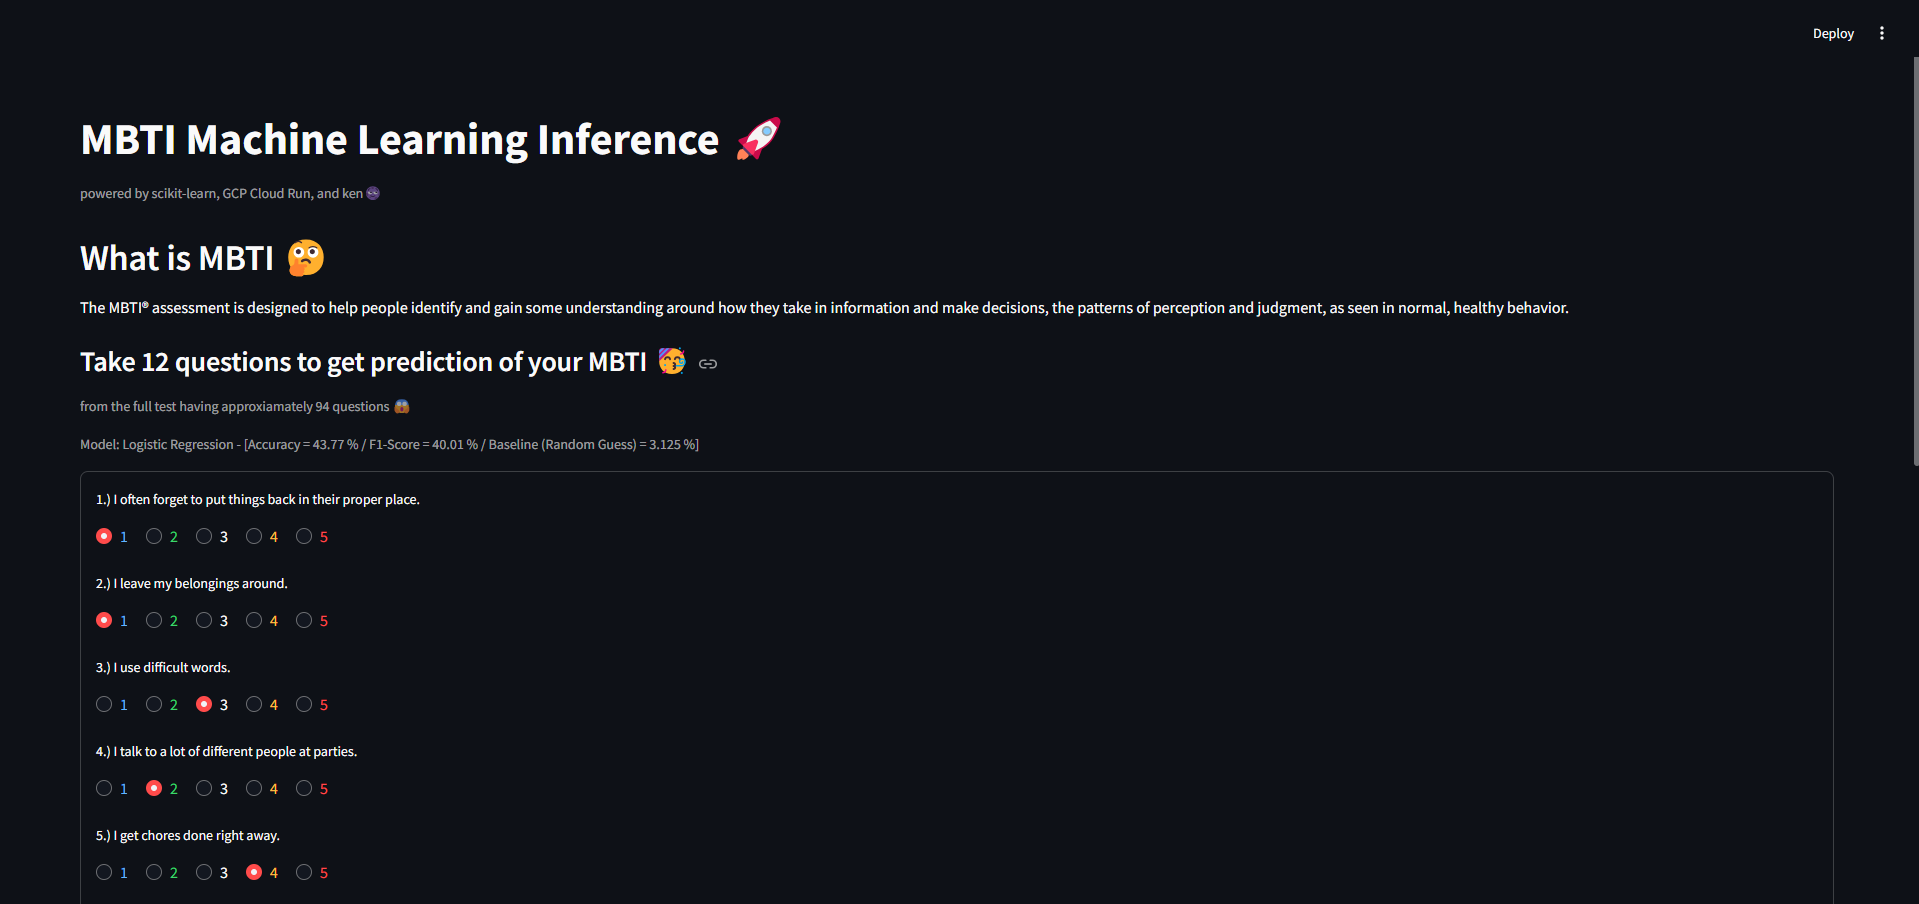
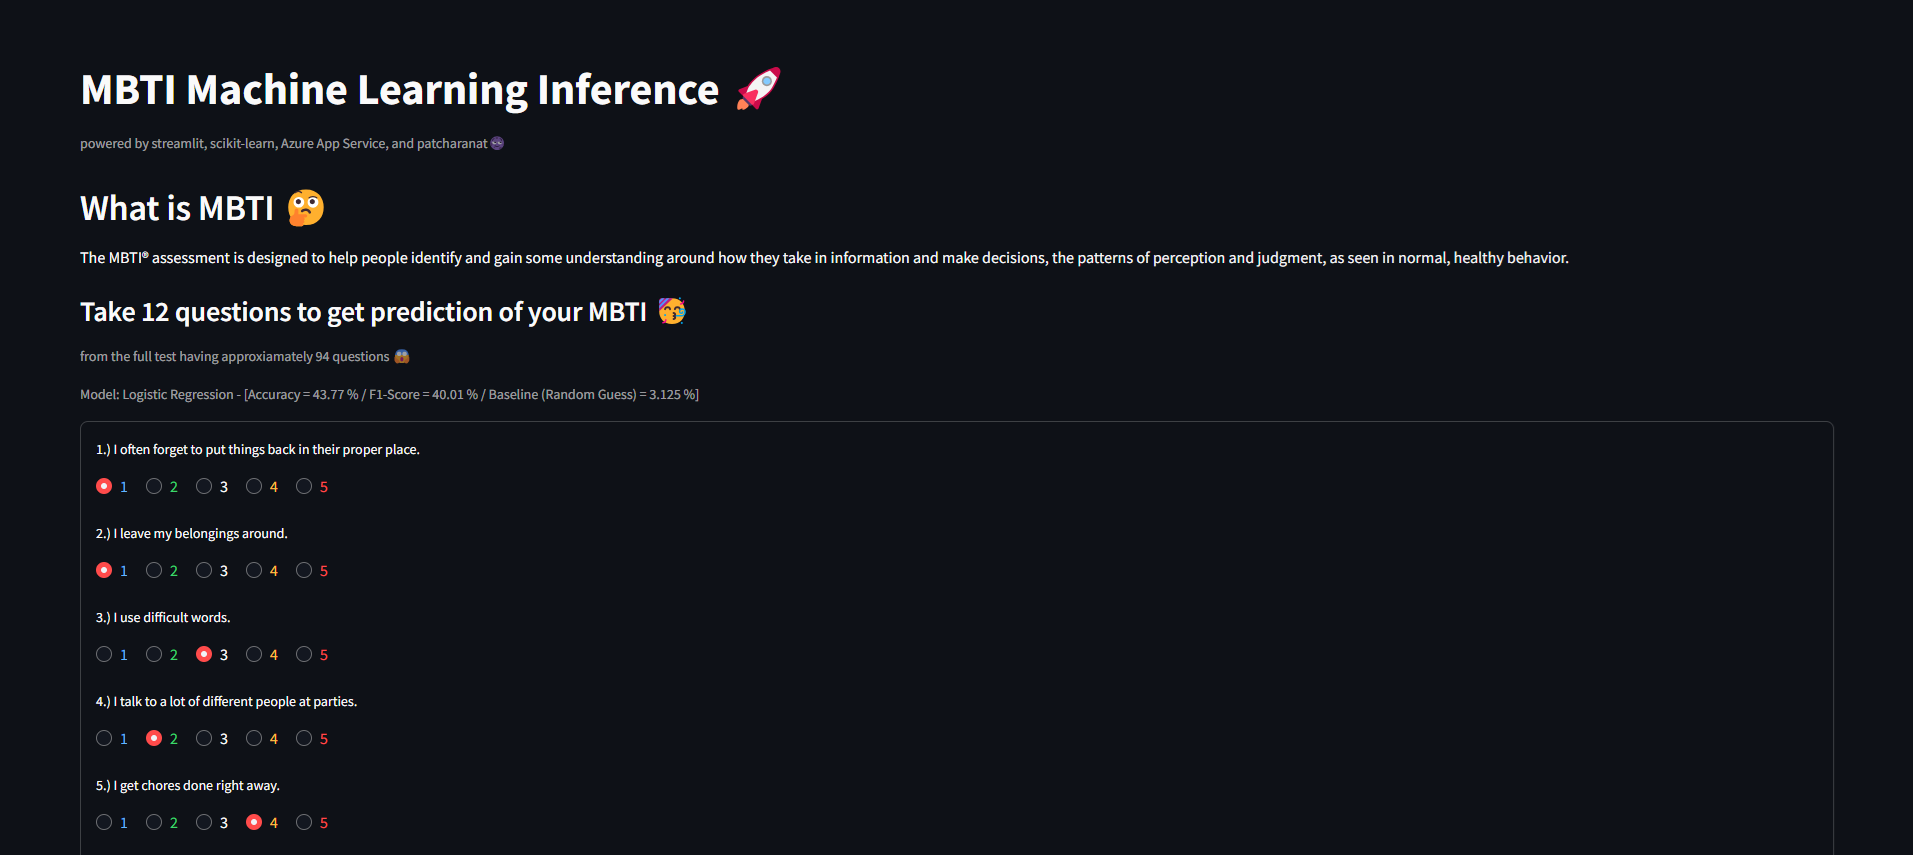
improve docs

diff --git a/mbti_ipip/streamlit/main_app.py b/mbti_ipip/streamlit/main_app.py
@@ -13,7 +13,7 @@ RELATIVE_PATH = os.getenv("DOCKER_OPERATE", "mbti_ipip/streamlit/")
 
 st.set_page_config(layout="wide")
 st.title("MBTI Machine Learning Inference 🚀")
-st.caption("powered by scikit-learn, Azure App Service")
+st.caption("powered by streamlit, scikit-learn, Azure App Service, and patcharanat🌚")
 
 st.header("What is MBTI 🤔")
 st.markdown("""

diff --git a/mbti_ipip/README.md b/mbti_ipip/README.md
@@ -1,5 +1,5 @@
 # MBTI - IPIP
-*Know your MBTI within 12 questions through ML model deployed with streamlit on Azure cloud*
+*Discover Your MBTI in 12 Questions with an ML Model Deployed via Streamlit on Azure Cloud Using Docker and Terraform CI/CD Pipelines*
 
 *patcharanat p.*
 
@@ -7,7 +7,7 @@
 
 ## Introduction
 
-Taking nearly 100 questions to know your MBTI could take a lot of time. How about knowing your MBTI within 12 questions? predicted by Machine Learning deployed with Streamlit on Azure Cloud.
+Taking nearly 100 questions to know your MBTI could take a lot of time. How about knowing your MBTI within 12 questions? predicted by Machine Learning deployed via Streamlit on Azure Cloud with Terraform CI/CD pipeline.
 
 ![kmlops_overview](./docs/kmlops_overview.png)
 
@@ -19,10 +19,13 @@ Taking nearly 100 questions to know your MBTI could take a lot of time. How abou
 ## Table of Contents
 
 1. [Getting Started](#1-getting-started)
-2. [Model Development](#2-model-development)
+2. [ML Model and Application Development](#2-ml-model-and-application-development)
 3. [Authentication](#3-authentication)
 4. [Deployment](#4-deployment)
-5. [Appendix](#5-appendix)
+    - 4.1 [Azure CLI and CI/CD Pipeline](#41-azure-cli-and-cicd-pipeline)
+    - 4.2 [Azure Terraform and CI/CD Pipeline](#42-azure-terraform-and-cicd-pipeline)
+5. [Conclusion](#5-conclusion)
+6. [Appendix](#6-appendix)
     - [About Dataset](#about-dataset)
     - [Mapping Personalities IPIP to MBTI](#mapping-personalities-ipip-to-mbti)
     - [MBTI Contents](#mbti-contents)
@@ -59,35 +62,42 @@ Taking nearly 100 questions to know your MBTI could take a lot of time. How abou
 
 ## 1. Getting Started
 
-This sub-project is quite also focused on data science methodology besides from MLOps, including initiating a problem, how we use ML to solve the problem, and how we wrangle and label the data to meet the requirement. Even though MLOps practices, especially ML model deployment, still play a crucial role to deliver developed ML as an usable product as a web service with docker container, streamlit, and Azure cloud Web App service.
+This sub-project emphasizes not only MLOps but also data science methodology. It covers initiating a problem, applying ML to address it, and wrangling and labeling data to meet the requirements. While MLOps practices, particularly ML model deployment, remain essential for delivering a functional web service, this is achieved using Docker containers, Streamlit, and Azure Web App Service.
 
-- Core component for the project consist of:
-    - [Dockerfile](Dockerfile)
-        - containerize ML application.
-    - streamlit/[requirements.txt](./streamlit/requirements.txt)
-        - dependency of the application required in the container.
-    - streamlit/[main_app.py](./streamlit/main_app.py)
-        - Streamlit App (Web-based UI)
-    - streamlit/models/*
-        - Contained ML model, Encoder/Decoder, and list of input questions used in Streamlit App
-    - streamlit/mbti_info/*
-        - Contained application's text contents
-    - streamlit/picture/*
-        - Contained application's picture contents
-    - terrform/*
-        - Code for deployment on cloud
-- To run application locally for development, demo or testing, please enable `pyenv` in root working directory before and then run this:
-    ```bash
-    # workdir .
-    streamlit run mbti_ipip/streamlit/main_app.py
-    ```
+To run application locally for development, demo or testing, please enable `pyenv` in root working directory before, and then run this:
+```bash
+# workdir .
+streamlit run mbti_ipip/streamlit/main_app.py
+```
 
-## 2. Model Development
+## 2. ML Model and Application Development
 
 ![kmlops_dev_process](./docs/kmlops_dev_process.png)
 
+### 2.1 ML Model Development
+
 For ML Model Development Please refer to another associate project:
 - [ML-Sandbax - mbti_ipip - GitHub patcha-ranat](https://github.com/patcha-ranat/ML-Sandbox/blob/main/mbti_ipip/model_dev.ipynb)
+
+### 2.2 ML Application Development
+
+Documentation do not cover Streamlit application development, since it depends on individual designs. But you can review through the following relevant components:
+- [Dockerfile](Dockerfile)
+    - containerize ML application.
+- streamlit/[requirements.txt](./streamlit/requirements.txt)
+    - dependency of the application required in the container.
+- streamlit/[main_app.py](./streamlit/main_app.py)
+    - Streamlit App (Web-based UI code)
+- streamlit/models/*
+    - Contained ML model, Encoder/Decoder, and list of input questions used in Streamlit App
+- streamlit/mbti_info/*
+    - Contained ML application's text contents
+- streamlit/picture/*
+    - Contained ML application's picture contents
+
+References:
+- [Deploy Streamlit using Docker - Official Streamlit Docs](https://docs.streamlit.io/deploy/tutorials/docker)
+- [Streamlit API Reference - Official Streamlit Docs](https://docs.streamlit.io/develop/api-reference)
 
 ## 3. Authentication
 
@@ -112,7 +122,7 @@ In Azure Cloud, there are multiple authentication methods that you can choose to
 
 ***Service Principal*** (SP) is similar to *Service Account* in GCP. It's intended to have least permissions to interact with a resource according to security purpose. We will enable SP for provisioning cloud resources through Terraform or Azure CLI. To create SP, you can achieve it through Azure Portal (Web UI) or through Azure CLI (`az`).
 
-### 1. Creating Service Principal with Azure CLI
+### 3.1 Creating Service Principal with Azure CLI
 - first we'll need to login through `az`
 
     ```bash
@@ -144,7 +154,7 @@ In Azure Cloud, there are multiple authentication methods that you can choose to
     ```
     We will futher use this output either in Terraform or Azure CLI for account impersonation
 
-### 2. Creating Service Principal with Azure Portal
+### 3.2 Creating Service Principal with Azure Portal
 - Creating SP
     - `Microsoft Entra ID (formerly Azure Active Directory (Azure AD))` >> `App registrations` >> *create SP*
     - `App registrations` >> newly created SP >> `Certificates & secrets`
@@ -166,8 +176,8 @@ References:
 ## 4. Deployment
 
 I included 2 approaches of deployment in this sub-project:
-1. Azure CLI and CI/CD Pipeline
-2. Terraform and CI/CD Pipeline
+1. [Azure CLI and CI/CD Pipeline](#41-azure-cli-and-cicd-pipeline)
+2. [Azure Terraform and CI/CD Pipeline](#42-azure-terraform-and-cicd-pipeline)
 
 ### 4.1 Azure CLI and CI/CD Pipeline
 
@@ -218,7 +228,6 @@ docker push <dockerhub-username>/<repo-name>:<tag>
 ```
 
 - In before revised version, I configure Azure app service in Azure cloud manually. please refer to references below to deploy on cloud as online application through Azure Web UI (Azure Portal).
-- To prepare Streamlit app for production, you can find more details at [Official Documentation from Streamlit](https://docs.streamlit.io/deploy/tutorials/docker)
 
 References:
 - [Pushing Docker Image to Docker Hub - Youtube - Shaw Talebi](https://youtu.be/pJ_nCklQ65w?si=C0T-OnEd_BbAvsdV&t=1035)
@@ -433,7 +442,16 @@ References:
     - [Detail for using `.tfvars` - Official Terraform Docs](https://developer.hashicorp.com/terraform/language/values/variables#variable-definitions-tfvars-files)
     - [Specifying Terraform file in directories for execution (`-chdir`) - Official Terraform Docs](https://developer.hashicorp.com/terraform/cli/commands#switching-working-directory-with-chdir)
 
-## 5. Appendix
+## 5. Conclusion
+
+In this sub-project, we achieved the following:
+- **Leveraged semi-supervised learning** to utilize simple Machine Learning algorithms effectively.
+- **Developed a containerized ML application** using Streamlit and Docker.
+- **Provisioned Azure cloud resources** for ML deployment with a Terraform remote backend.
+- **Deployed the ML application on Azure** using Azure Web App Service, Azure CLI, and CI/CD pipelines with Terraform.
+
+## 6. Appendix
+
 ### About Dataset
 - [Big Five Personality Test - Kaggle](https://www.kaggle.com/datasets/tunguz/big-five-personality-test)
 - [Local Data Dict](./data/codebook.txt)

diff --git a/README.md b/README.md
@@ -50,9 +50,13 @@ To run projects in this repository, it's required to have some relevant dependen
     Some sub-projects are required to set up cloud resources. We will utilize ***Terraform*** as much as possible to reduce manual configuration and enhance reproducibility. If the project is required, the Terraform folder will be located in it, intended to manage it as a resource group for each project.
 
 ## 2. Projects and Development
-1. [MBTI-IPIP: Know your MBTI within 12 questions through ML model deployed with streamlit on Azure cloud](./mbti_ipip/README.md)
-    - This sub-project is quite also focused on data science methodology besides from MLOps, including initiating a problem, how we use ML to solve the problem, and how we wrangle and label the data to meet the requirement. Even though MLOps practices, especially ML model deployment, still play a crucial role to deliver developed ML as an usable product as a web service with docker container, streamlit, and Azure cloud Web App service.
-    - **Tools**: Logistic Regression, Docker, Docker Hub, Streamlit, Azure Web App Service, Terraform CI/CD
+1. [MBTI-IPIP: Discover Your MBTI in 12 Questions with an ML Model Deployed via Streamlit on Azure Cloud Using Docker and Terraform CI/CD Pipelines](./mbti_ipip/README.md)
+    - This sub-project emphasizes not only MLOps but also data science methodology. It covers initiating a problem, applying ML to address it, and wrangling and labeling data to meet the requirements. While MLOps practices, particularly ML model deployment, remain essential for delivering a functional web service, this is achieved using Docker containers, Streamlit, and Azure Web App Service.
+    - In this sub-project, we achieved the following:
+        - **Leveraged semi-supervised learning** to utilize simple Machine Learning algorithms effectively.
+        - **Developed a containerized ML application** using Streamlit and Docker.
+        - **Provisioned Azure cloud resources** for ML deployment with a Terraform remote backend.
+        - **Deployed the ML application on Azure** using Azure Web App Service, Azure CLI, and CI/CD pipelines with Terraform.
     ![mbti_ipip_kmlops_overview](./mbti_ipip/docs/kmlops_overview.png)
     ![mbti_product1](./mbti_ipip/docs/mbti_product1.png)
     ![mbti_product2](./mbti_ipip/docs/mbti_product2.png)
